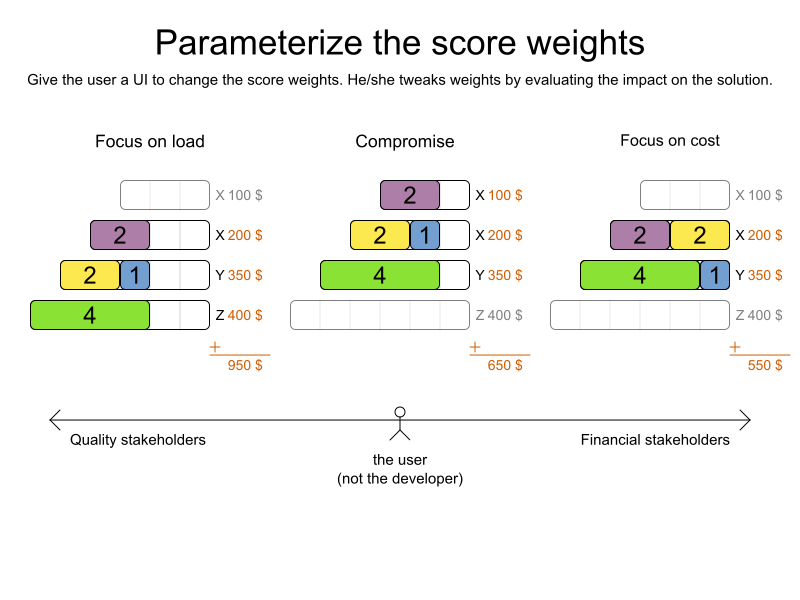
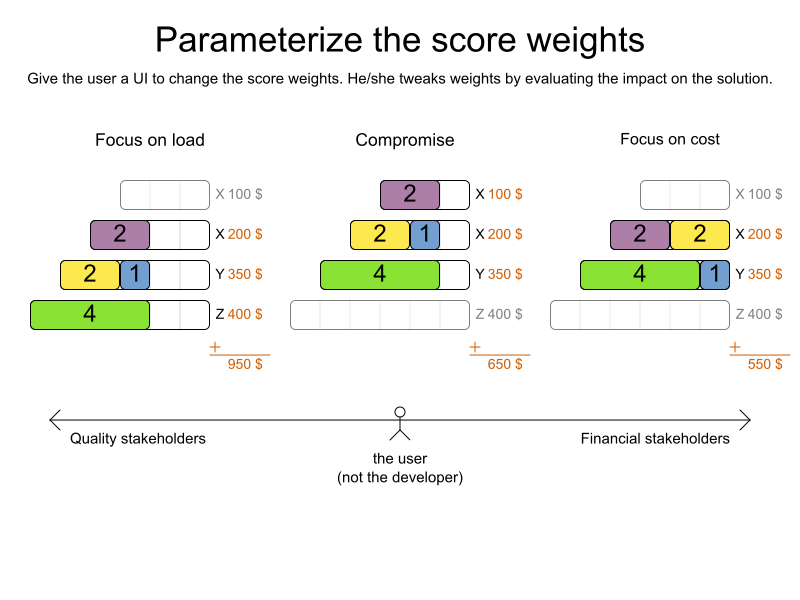
constraint configuration docs (thanks Radovan)

diff --git a/optaplanner-examples/src/main/java/org/optaplanner/examples/examination/swingui/ExaminationConstraintConfigurationDialog.java b/optaplanner-examples/src/main/java/org/optaplanner/examples/examination/swingui/ExaminationConstraintConfigurationDialog.java
@@ -105,7 +105,7 @@ public class ExaminationConstraintConfigurationDialog extends JDialog {
         return formPanel;
     }
 
-    public void setInstitutionParametrization(ExaminationConstraintConfiguration constraintConfiguration) {
+    public void setExaminationConstraintConfiguration(ExaminationConstraintConfiguration constraintConfiguration) {
         twoInARowPenaltyField.setValue(constraintConfiguration.getTwoInARowPenalty());
         twoInADayPenaltyField.setValue(constraintConfiguration.getTwoInADayPenalty());
         periodSpreadLengthField.setValue(constraintConfiguration.getPeriodSpreadLength());

diff --git a/optaplanner-examples/src/main/java/org/optaplanner/examples/examination/swingui/ExaminationPanel.java b/optaplanner-examples/src/main/java/org/optaplanner/examples/examination/swingui/ExaminationPanel.java
@@ -86,7 +86,7 @@ public class ExaminationPanel extends SolutionPanel<Examination> {
                             "Unsupported in GUI", JOptionPane.ERROR_MESSAGE);
                     return;
                 }
-                examinationConstraintConfigurationDialog.setInstitutionParametrization(
+                examinationConstraintConfigurationDialog.setExaminationConstraintConfiguration(
                         getSolution().getConstraintConfiguration());
                 examinationConstraintConfigurationDialog.setVisible(true);
             }